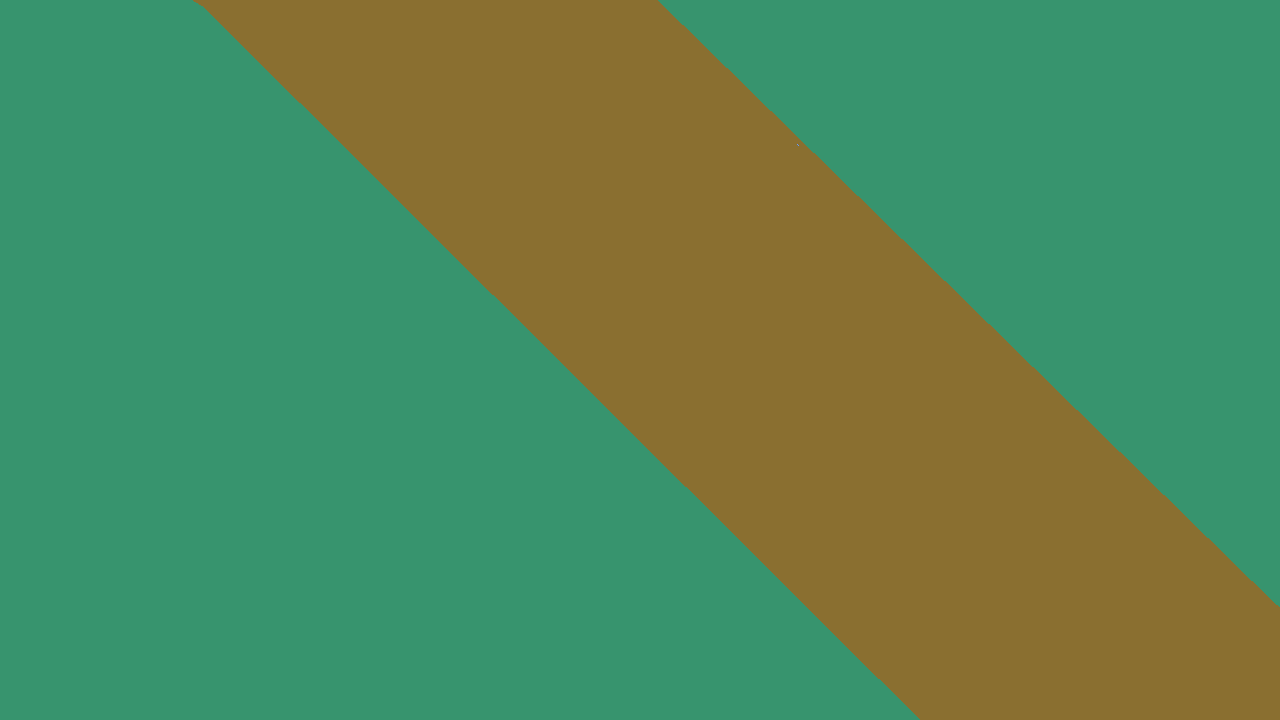
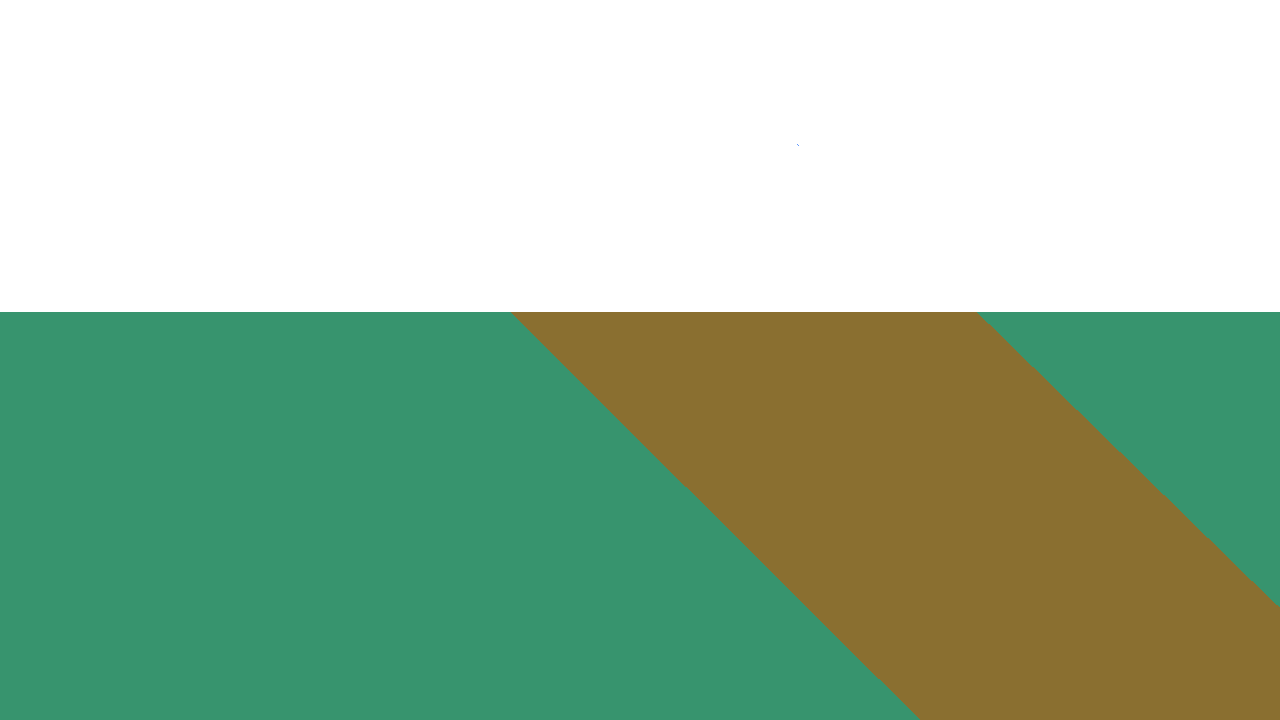
昨日送れずにさーせん

diff --git a/Player.cpp b/Player.cpp
@@ -140,32 +140,41 @@ void Player::Update() {
 			}
 			//ため時間
 			if (input->PushButton(input->Button_RB)) {
+				move_count = 0;
 				chargeTimer++;
 				PlayerSpeed = 0.1f;
-				if (sca.x > 0.0f) {
-					sca.x -= 0.02f;
-					sca.y -= 0.02f;
-					sca.z -= 0.02f;
-				} else {
+
+				if (plasca.x<0.004f) {
+					state = down;
+				}
+				if (plasca.x >= 0.007f) {
+					state = up;
+				}
+
+				if (state==up) {
+					plasca.x -= 0.00015f;
+					plasca.y -= 0.00015f;
+					plasca.z -= 0.00015f;
+				} 
+				if(state==down) {
+					plasca = {
+					0.007f,
+					0.007f,
+					0.007f,
+					};
+				}
+
+				if (sca.x < 0.4f) {
 					sca = { 0.7f,0.7f,0.7f };
+				} else {
+					sca.x -= 0.015f;
+					sca.y -= 0.015f;
+					sca.z -= 0.015f;
 				}
 				if ((chargeTimer % 100 == 0) && (RotCount <= 2)) {
 					RotCount++;
 					ChangeScale = true;
-					if (RotCount == 1) {
-						Aftersca = {
-						0.006,
-						0.006,
-						0.006,
-						};
-					}
-					else if (RotCount == 2) {
-						Aftersca = {
-						0.005f,
-						0.005f,
-						0.005f,
-						};
-					}
+
 				}
 				//チャージ時のエフェクト
 				if (RotCount<1) {
@@ -190,7 +199,7 @@ void Player::Update() {
 					RotTimer = 200 * (int)RotCount;
 					RotPower = 10.0f;
 					ChangeScale = true;
-					Aftersca = {
+					plasca = {
 					0.007f,
 					0.007f,
 					0.007f,
@@ -213,11 +222,11 @@ void Player::Update() {
 			scaleframe += 0.1f;
 		}
 
-		plasca = {
-		Ease(In,Cubic,scaleframe,plasca.x,Aftersca.x),
-		Ease(In,Cubic,scaleframe,plasca.y,Aftersca.y),
-		Ease(In,Cubic,scaleframe,plasca.z,Aftersca.z)
-		};
+		//plasca = {
+		//Ease(In,Cubic,scaleframe,plasca.x,Aftersca.x),
+		//Ease(In,Cubic,scaleframe,plasca.y,Aftersca.y),
+		//Ease(In,Cubic,scaleframe,plasca.z,Aftersca.z)
+		//};
 	}
 	//振り回している
 	if (AttackFlag == true) {
@@ -486,9 +495,9 @@ void Player::TitleUp() {
 	}
 	rot = this->object3d->GetRotation();
 	//アニメーション用のキー入力
-	rot.y = 60.0f;
+	rot.y = 0.0f;
 	move_count++;
-	position.y = -1.0f;
+	//position = { 2.0f,-4.0f ,0};
 	onGround = true;
 
 	//移動
@@ -515,12 +524,14 @@ void Player::TitleUp() {
 void Player::Draw(DirectXCommon* dxCommon) {
 
 	ImGui::Begin("test");
-	ImGui::SliderFloat("rebound.x", &rebound.x, 50, -50);
-	ImGui::SliderFloat("distance.x", &distance.x, 1, 0);
-	ImGui::Text("%d", DamageFlag);
+	ImGui::SliderFloat("pso.x", &position.x, 50, -50);
+	ImGui::SliderFloat("pso.y", &position.y, 50, -50);
+	ImGui::SliderFloat("pso.z", &position.z, 50, -50);
 	ImGui::End();
 	Texture::PreDraw();
-	Charge->Draw();
+	if (input->PushButton(input->Button_RB)) {
+		Charge->Draw();
+	}
 	Object3d::PreDraw();
 	if (FlashCount % 2 == 0) {
 		move_object1->Draw(dxCommon->GetCmdList());

diff --git a/Player.h b/Player.h
@@ -45,7 +45,7 @@ public:
 
 	const XMFLOAT3& GetDistance() { return distance; }
 
-	const int& GetHp() { return HP; }
+	const float& GetHp() { return HP; }
 
 	const int& GetInterval() { return Interval; }
 
@@ -77,7 +77,7 @@ public:
 
 	void SetArmRotation(XMFLOAT3 ArmRot) { this->ArmRot = ArmRot; }
 
-	void SetHp(int hp) { this->HP = hp; }
+	void SetHp(float hp) { this->HP = hp; }
 
 	void SetInterval(int Interval) { this->Interval = Interval; }
 
@@ -99,7 +99,7 @@ public:
 
 	void SetChargeTimer(int chargeTimer) { this->chargeTimer = chargeTimer; }
 
-	void SetRotCount(int RotCount) { this->RotCount = RotCount; }
+	void SetRotCount(float RotCount) { this->RotCount = RotCount; }
 
 	void SetDistance(XMFLOAT3 distance) { this->distance = distance; }
 
@@ -133,7 +133,11 @@ private:
 	XMFLOAT3 ArmRot = { 0,270,0 };
 	XMFLOAT3 distance{};
 	XMFLOAT3 rebound{};
-
+	bool state;
+	enum state {
+		up,
+		down
+	};
 	float PlayerSpeed = 0.3f;
 	//座標を戻す
 	float AfterRot =270.0f;
@@ -173,7 +177,7 @@ private:
 	bool wet = false;
 	int wetC = 0;
 	//ステータス的なやつ
-	int HP = 10;
+	float HP = 10;
 	float StickrotX = 0;
 	float StickrotY = 0;
 	XMFLOAT3 angle = { 0,0,0 };

diff --git a/ImageManager.cpp b/ImageManager.cpp
@@ -19,7 +19,7 @@ void ImageManager::Load2D() {
 	Sprite::LoadTexture(vignette, L"Resources/2d/Vignette.png");
 	Sprite::LoadTexture(CLEAR, L"Resources/2d/GAMECLEAR.png");
 	Sprite::LoadTexture(OVER, L"Resources/2d/GAMEOVER.png");
-	Sprite::LoadTexture(TITLE, L"Resources/2d/title.png");
+	Sprite::LoadTexture(TITLE, L"Resources/2d/TitleParts/layoutImage.png");
 	Sprite::LoadTexture(SELECT, L"Resources/2d/kariSelect.png");
 	Sprite::LoadTexture(playerhp, L"Resources/2d/HPBar.png");
 	Sprite::LoadTexture(hpGauge, L"Resources/2d/HPGauge.png");
@@ -45,6 +45,7 @@ void ImageManager::Load2D() {
 	Sprite::LoadTexture(WhiteFilter, L"Resources/2d/Whitefilter.png");
 	Sprite::LoadTexture(Tbutton, L"Resources/2d/Title1.png");
 	Sprite::LoadTexture(sky, L"Resources/2d/sky.png");
+	Sprite::LoadTexture(ground, L"Resources/2d/ground.png");
 
 }
 

diff --git a/ShockWave.cpp b/ShockWave.cpp
@@ -14,7 +14,7 @@ void ShockWave::Init() {
 
 void ShockWave::Upda(Pastel* pastel,Player* player) {
 	Interval = player->GetInterval();
-	int playerhp = player->GetHp();
+	float playerhp = player->GetHp();
 	if (CollideWave(player) && !CollideSafeWave(player) && Interval == 0 && player->GetPosition().y <= 1.0f) {
 		player->SetHp(player->GetHp() - 1);
 		Interval = 100;

diff --git a/HotWater.cpp b/HotWater.cpp
@@ -86,7 +86,7 @@ void HotWater::Draw() {
 void HotWater::Collide() {
 	if (!player->GetWet()) {
 		if (Collision::CircleCollision(pos.x, pos.z, radius, player->GetPosition().x, player->GetPosition().z, 1.0f)) {
-			player->SetHp((float)player->GetHp() - 0.5f);
+			player->SetHp(player->GetHp() - 0.5f);
 			player->SetWet(true);
 		}
 	}

diff --git a/enemy/InterEnemy.cpp b/enemy/InterEnemy.cpp
@@ -117,7 +117,7 @@ void InterEnemy::Reborn() {
 			pos.x = circleX + basePos.x;
 			pos.z = circleZ + basePos.z;
 			dir=(rand() % 360);
-			rot.y = (dir)-90;// *(XM_PI / 180.0f);
+			rot.y = (float)(dir-90);// *(XM_PI / 180.0f);
 			enemyobj->SetRotation(rot);
 			enemyobj->SetPosition(pos);
 		}

diff --git a/enemy/Rice.cpp b/enemy/Rice.cpp
@@ -73,7 +73,7 @@ void Rice::Update() {
 			//}
 		}
 		if (!followed && !LockOn()) {
-			rot.y = (dir)-90;// *(XM_PI / 180.0f);
+			rot.y = (float)(dir-90);// *(XM_PI / 180.0f);
 			speed_y = 3.0f / 20.0f;
 			if (pos.y > 0) {
 				pos.y -= speed_y;

diff --git a/ImageManager.h b/ImageManager.h
@@ -52,7 +52,7 @@ public:
 		WhiteFilter,
 		Tbutton,
 		sky,
-
+		ground,
 	};
 	enum tex2dName {
 	enemy,//Texture::LoadTexture(0, L"Resources/2d/enemy.png");

diff --git a/scene/TitleScene.h b/scene/TitleScene.h
@@ -33,6 +33,7 @@ class TitleScene : public BaseScene {
 			button1,
 			button2,
 			sky,
+			ground,
 			tutorial,
 			select,
 		};
